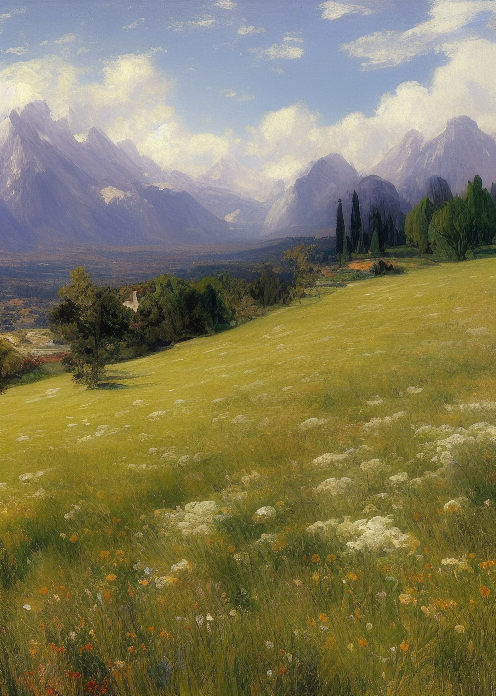
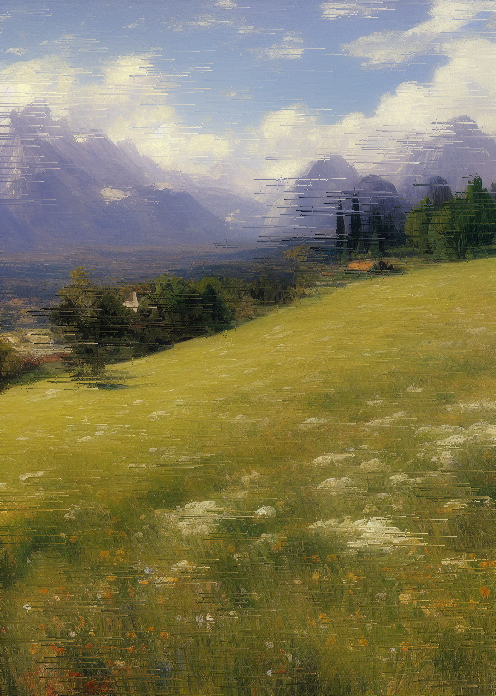
Added example output

diff --git a/sort_pixels_test.py b/sort_pixels_test.py
@@ -10,8 +10,8 @@ print(globals.original_image.mode)
 print(globals.original_image.size)
 
 # Sort the image and display
-sort_pixels.sort_value(50, 0.5, 0.25, False, False)
+sort_pixels.sort_value(50, 0.5, 0.25, True, False)
 sort_pixels.apply_sort()
 sort_pixels.sort_value(5, 1, 0.1, False, True)
 globals.sorted_image.show()
-globals.sorted_image.save('images\image1-sorted2.png')
+globals.sorted_image.save('images\image1-sorted.png')
